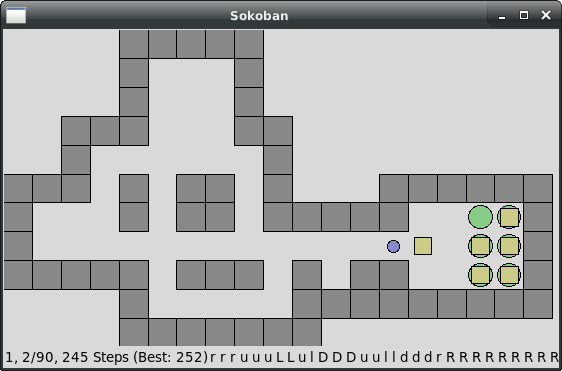
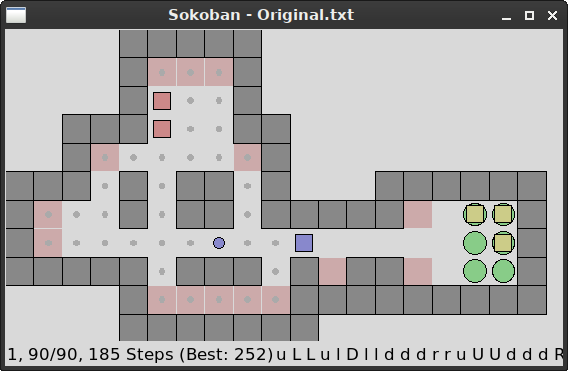
some cleanup and cosmetics

Changed region(s): [[0.0, 0.0, 1.0, 1.0], [0.2722, 0.6523, 0.3025, 0.6819], [0.2722, 0.4151, 0.3025, 0.4447]]

diff --git a/src/sokoban_ui.py b/src/sokoban_ui.py
@@ -33,7 +33,9 @@ class Color:
 	GOAL = "#88CC88"
 	BOX  = "#CCCC88"
 	PLYR = "#8888CC"
-	DEAD = "#CC8888"
+	DEAD = "#CCAAAA"
+	STUCK = "#CC8888"
+	REACH = "#AAAAAA"
 
 
 class SokobanFrame(tk.Frame):
@@ -188,15 +190,14 @@ class SokobanFrame(tk.Frame):
 				self.canvas.create_oval(x+w*.1, y+w*.1, x+w*.9, y+w*.9, fill=Color.GOAL)
 
 		tags = {"tag": "state"}
+		for x, y, _ in map(to_xy, self.game.state.level.deadends):
+			self.canvas.create_rectangle(x+1, y+1, x+w-1, y+w-1, outline=Color.DEAD, fill=Color.DEAD, **tags)
 		if self.show_reachable:
 			for x, y, _ in map(to_xy, search.reachable(self.game.state)):
-				self.canvas.create_oval(x+w*.4, y+w*.4, x+w*.6, y+w*.6, outline="#aaaaee", fill="#aaaaee", **tags)
-
-		for x, y, _ in map(to_xy, self.game.state.level.deadends):
-			self.canvas.create_rectangle(x, y, x+w, y+w, fill=Color.DEAD, **tags)
+				self.canvas.create_oval(x+w*.4, y+w*.4, x+w*.6, y+w*.6, outline=Color.REACH, fill=Color.REACH, **tags)
 		for x, y, p in map(to_xy, self.game.state.boxes):
 			color = Color.PLYR if p == self.selected else \
-			        Color.BOX if p not in deadlocked else Color.DEAD
+			        Color.BOX if p not in deadlocked else Color.STUCK
 			self.canvas.create_rectangle(x+w*.2, y+w*.2, x+w*.8, y+w*.8, fill=color, **tags)
 		x, y, _ = to_xy(self.game.state.player)
 		self.canvas.create_oval(x+w*.3, y+w*.3, x+w*.7, y+w*.7, fill=Color.PLYR, **tags)

diff --git a/README.md b/README.md
@@ -1,7 +1,7 @@
 Sokoban
 =======
 
-_2015-2017, Tobias Küster_
+_2015-2021, Tobias Küster_
 
 Just my version of the classic Sokoban puzzle. Initially, this was just one among
 many little entries in my `games` repository, but I like this one quite a bit (in
@@ -65,15 +65,17 @@ UI Symbols:
 * blue dot: player
 * green circle: target for box
 * yellow box: a regular box
-* blue box: box selected for push-planning
-* dark-grey boxes: walls/obstacles
+  * blue box: box selected for push-planning
+  * red box: a box that is not on a target and can not be moved any more
+* dark-grey block: walls/obstacles
+* light-red block: deadend (boxes can't reach a target from here)
 
 Status Line Format:
 * current Level
 * solved / total number of levels in current level set
 * number of steps used so far
 * best number of steps used for this level
-* last 30 moves (u/l/r/r; upper-case means pushed)
+* last 30 moves (u/l/d/r; upper-case means pushed)
 
 
 Controls
@@ -87,6 +89,7 @@ Keyboard-Controls:
 * R: reload level
 * S / L: save or load single snapshot (lost when switching the level)
 * D: show dead-ends
+* . (period): show positions reachable without pushing
 * Z / Y: undo/redo last moves
 * Q: quit
 
